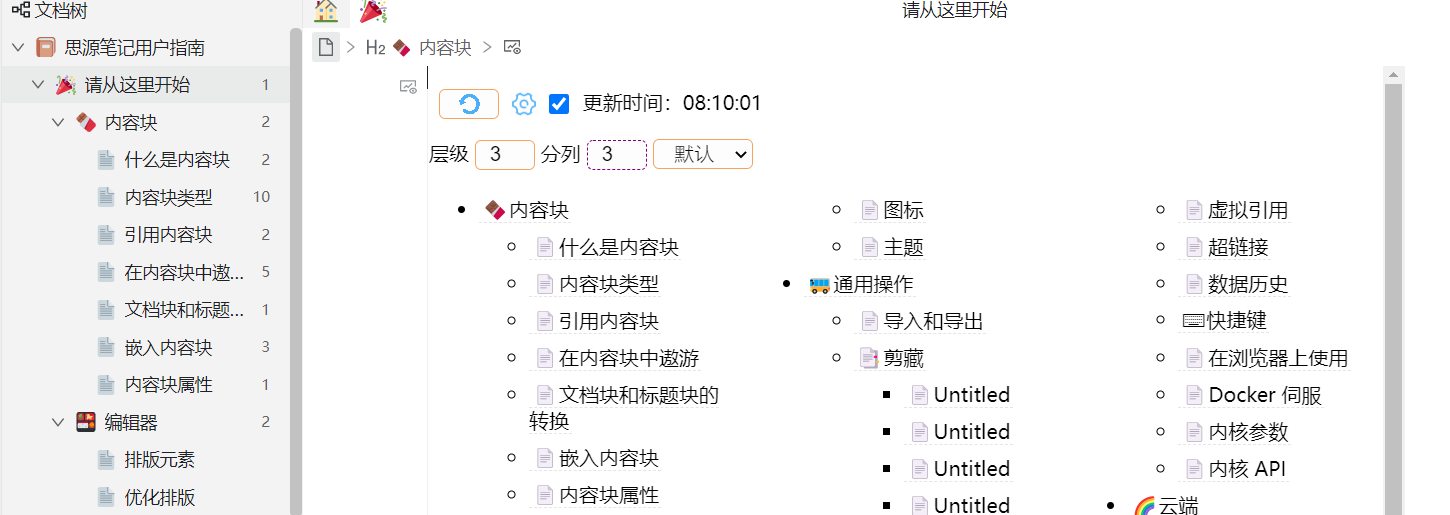
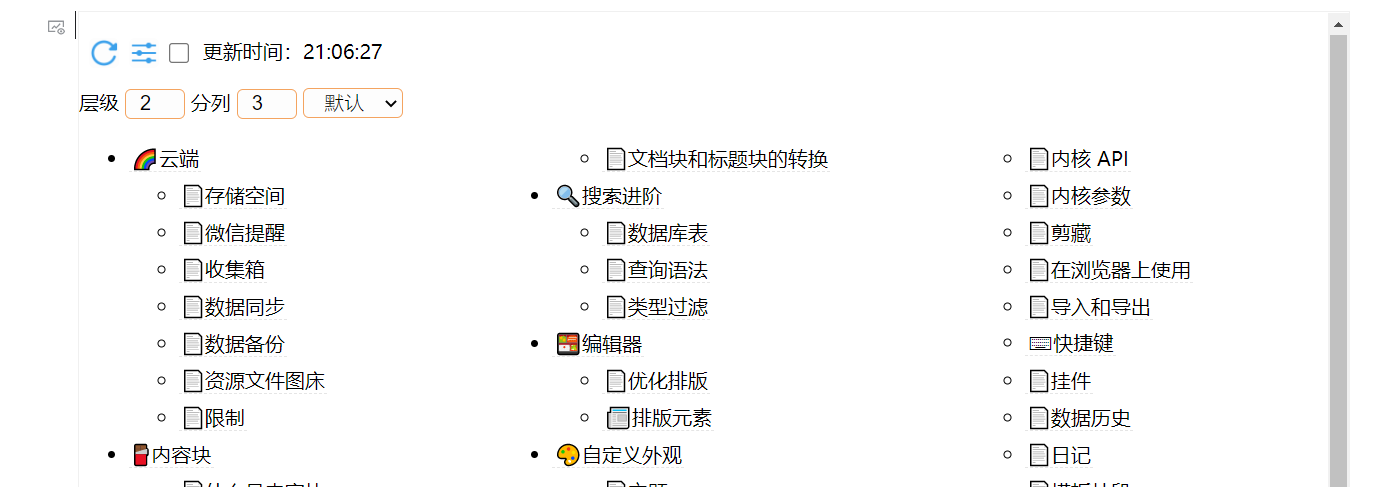
v0.0.8 Release

diff --git a/src/config.js b/src/config.js
@@ -30,7 +30,7 @@ let setting = {//全局设置
     showEndDocOutline: false, //列出终端文档的大纲？影响性能、反应极慢，建议禁用(设置为false)。（i.e.混合列出）
     inheritAttrs: true, //刷新列表后重写属性
     customEmojiEnable: true, //文档使用自定义emoji时，写入自定义emoji图片
-    autoHeight: true, //在模式“默认”“挂件beta”下，使得挂件高度跟随目录长度自动调整
+    autoHeight: false, //在模式“默认”“挂件beta”下，使得挂件高度跟随目录长度自动调整
 };
 //全局设置
 let includeOs = ["windows"];//监视页签变化自动刷新功能将在列出的操作系统上启用

diff --git a/README.md b/README.md
@@ -1,6 +1,6 @@
 ## list Child Docs列出子文档
 
-> 当前版本： v0.0.7 修复：上一版本引入的emoji问题；
+> 当前版本： v0.0.8 修复：在思源v2.2.1+版本出现错误提示Failed to execute 'observe'；外观：按钮图标变更；改进：挂件内列出时支持自动更改挂件高度；
 >
 
 > 用于思源笔记创建、更新子文档目录列表的挂件，依靠bugs运行。
@@ -8,7 +8,7 @@
 - 创建当前文档的子文档目录列表；
   - 创建当前文档大纲列表；
 
-- 子文档目录列表形式：
+- 子文档目录列表形式（无序列表）：
   - 挂件内——`siyuan://`子文档块超链接（安卓端可能无法打开[^3]）；
   - 挂件内——“引用块”（功能测试中）；
   - 文档中——`siyuan://`子文档块超链接；
@@ -50,6 +50,10 @@
 
 - `引用块`：（文档中）在挂件下方创建无序列表\*展示引用块；
 
+- `1.默认`：（挂件内）有序列表`siyuan://`超链接；
+
+- `1.挂件`：（挂件内）有序列表展示“引用块”
+
 7：大纲层级：列出大纲时，设定大纲的显示层级数；
 
 > 层级设置为0、并保存设置后，才会显示大纲层级设定（层级数为实际层级，和h1h2无关）
@@ -70,13 +74,14 @@
 - 启用/禁用 超级块分列（分栏）时在缩进位置折断：`divideColumnAtIndent`；
 - 启用/禁用 列出子文档时一并列出终端页面的大纲：`showEndDocOutline`；（影响体验，刷新极慢）
 - 启用/禁用 写入自定义emoji图片：`customEmojiEnable`；
+- 启用/禁用 挂件内展示时根据目录长度自动更改挂件高度： `autoHeight`；
 - ....其他设置；
 
 ### 使用举例
 
 有些主题支持将文档中的无序列表显示为导图/表格。理论上v0.0.5版本可以在刷新后保留相关属性设定，即刷新后仍然展示为导图/表格。
 
-注：分栏（分列）数>1时，不建议更改无序列表视图样式；
+注：如果视图更改为导图/表格，请不要使用分列，请将分列数设置为1。
 
 > 在此前的版本，刷新目录列表后将丢失自定义属性，现在相关属性将在刷新后重写，并将`custom-f`属性写入对应元素。
 
@@ -99,7 +104,7 @@
 - 关于写入自定义emoji图片：
   - 挂件以图片的方式写入的自定义emoji，有一些边距导致对齐效果不好；
   - 请避免图片路径包括特殊符号，例如`()%& `，如果包括，不能确定实际效果;
-  - 自定义emoji不再assets下，不是资源文件，会有网络图片角标（设置-编辑器-是否显示网络图片角标）；
+  - 自定义emoji不在assets下，不是资源文件，会有网络图片角标（设置-编辑器-是否显示网络图片角标）；
 
 
 
@@ -129,16 +134,18 @@
 1. jQuery （本项目中通过jQuery选择页面元素）；
 
 ```
- * jQuery JavaScript Library v3.6.0
- * https://jquery.com/
- *
- * Includes Sizzle.js
- * https://sizzlejs.com/
- *
- * Copyright OpenJS Foundation and other contributors
- * Released under the MIT license
- * https://jquery.org/license
+jQuery JavaScript Library v3.6.0  https://jquery.com/
+Copyright OpenJS Foundation and other contributors
+Released under the MIT license  https://jquery.org/license
 ```
+
+### 图标
+
+1. [刷新按钮图标](https://www.iconfinder.com/icons/5402417/refresh_rotate_sync_update_reload_repeat_icon)，作者：[amoghdesign](https://www.iconfinder.com/amoghdesign)，许可协议：[CC3.0 BY-NC](http://creativecommons.org/licenses/by-nc/3.0/)；
+
+2. [设置按钮图标](https://www.iconfinder.com/icons/5925600/control_options_settings_icon)，作者：[IconPai](https://www.iconfinder.com/iconpai)，许可说明：Free for commercial use (Include link to authors website；
+
+
 
 [^1]: 例外：安全模式下，写入文档时（模式为`url`或`引用块`），将不会自动刷新。
 [^2]: 通过监视页签变化获取当前文档是否更新，默认仅在windows启用，不支持ios、android系统。例外：安全模式下，写入文档时（模式为`url`或`引用块`），将不会自动刷新。

diff --git a/CHANGELOG.md b/CHANGELOG.md
@@ -1,8 +1,15 @@
 ## 更新日志
 
+### v0.0.8 (2022-10-5)
+
+- 修复：在思源v2.2.1+版本出现错误提示Failed to execute 'observe'；[#15](https://github.com/OpaqueGlass/listChildDocs/issues/15)
+- 外观：更换按钮图标；[#14](https://github.com/OpaqueGlass/listChildDocs/issues/14)
+- 改进：挂件内列出时支持自动更改挂件高度；[#13](https://github.com/OpaqueGlass/listChildDocs/issues/13)
+- 新增：挂件内支持有序列表模式；[#17](https://github.com/OpaqueGlass/listChildDocs/issues/17)
+
 ### v0.0.7 (2022-9-17)
 
-- 修复：v0.0.6引入的自选emoji导入失败问题（[#11](https://github.com/OpaqueGlass/listChildDocs/issues/11)）；
+- 修复：v0.0.6引入的普通emoji插入失败问题（[#11](https://github.com/OpaqueGlass/listChildDocs/issues/11)）；
 
 ### v0.0.6 (2022-9-15)
 
